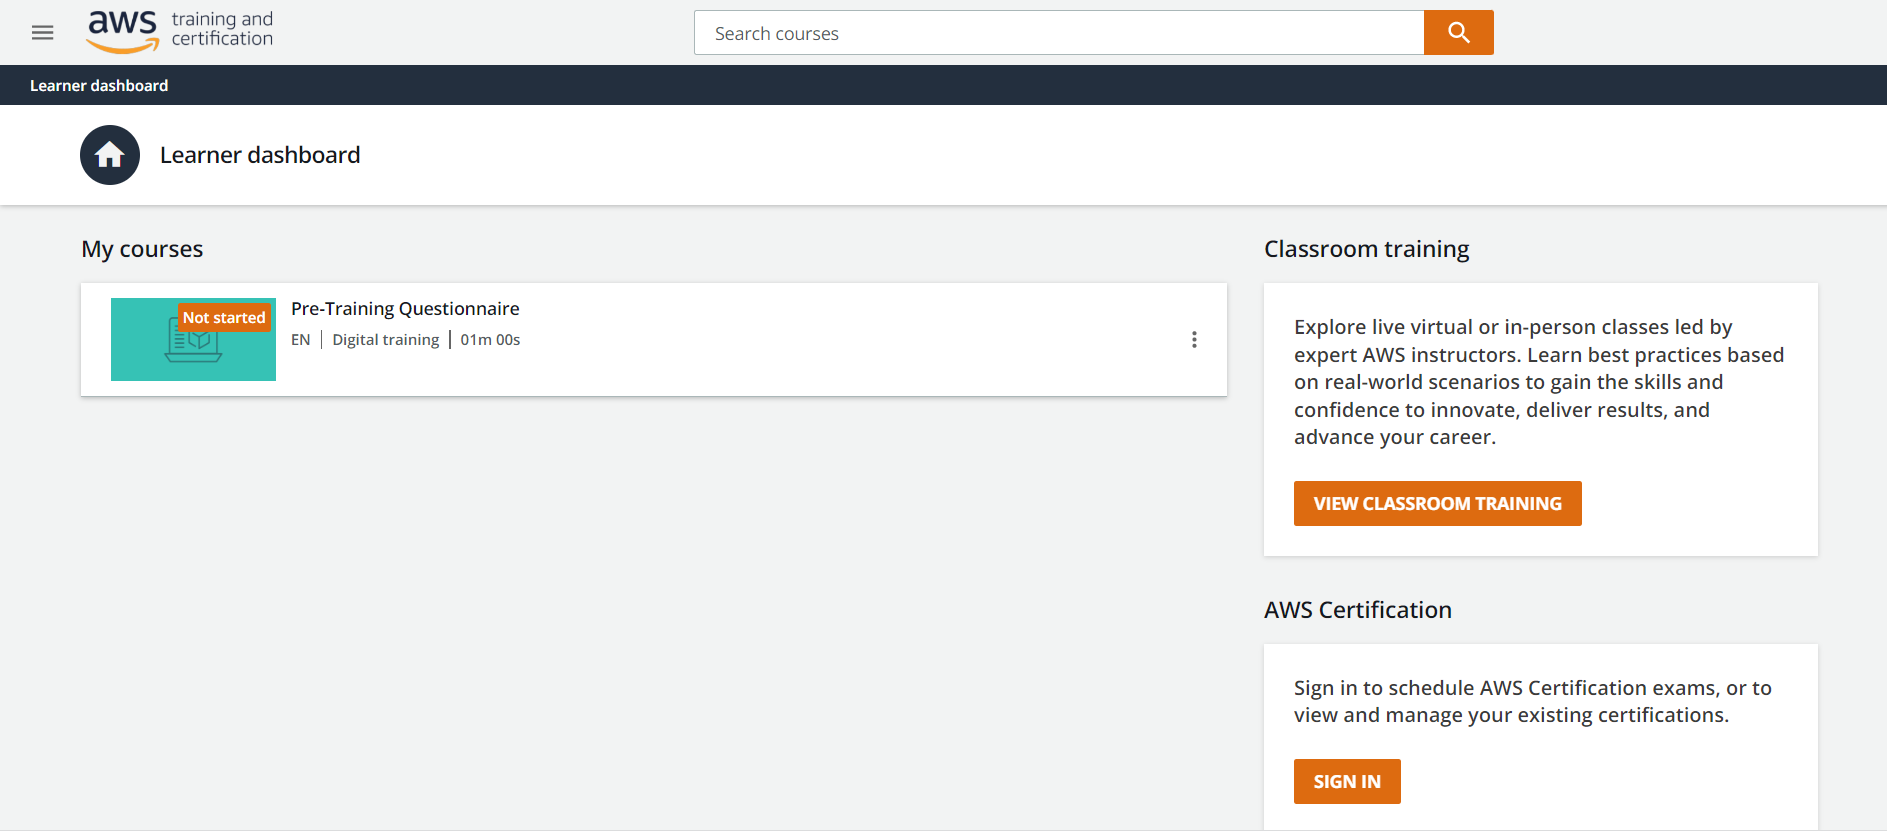
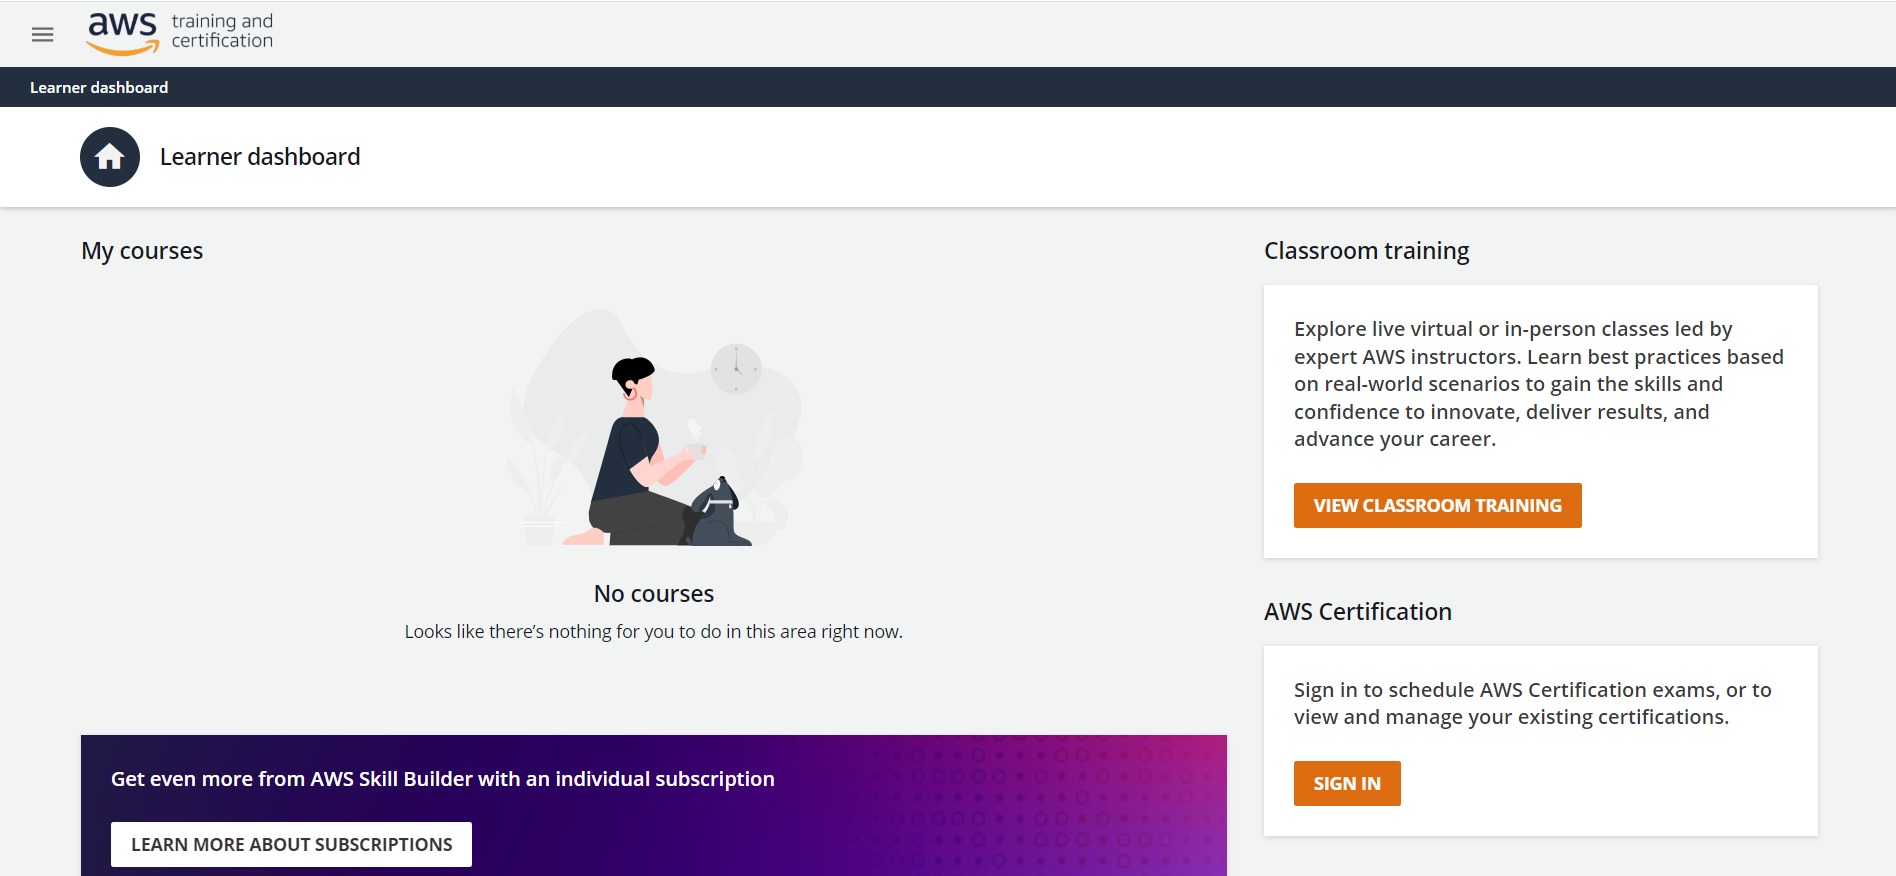
atualização 1s2023

diff --git a/README.md b/README.md
@@ -2,11 +2,6 @@
 
 ## Ambientes Operacionais
 
-Turmas:
-
-* BD 2A
-* EC 3A
-
 # Regras:
 
 * Você terá no máximo 1:40 para fazer a prova
@@ -40,7 +35,7 @@ Turmas:
 
 <img src="images/img9.png" width='100%'/>
 
-6. Clique em <img src="images/img10.png" height='30'/> e depois em <img src="images/img11.png" height='30'/>
+6. Se a opção <img src="images/img11.png" height='30'/> não estiver aparecendo, clique em <img src="images/img10.png" height='30'/> para mostrar. Depois em <img src="images/img11.png" height='30'/>
 
 <img src="images/img12.png" width='100%'/>
 
@@ -83,11 +78,7 @@ Turmas:
 <img src="images/img26.png" width='100%'/>
 
 
-17. Você deve conseguir ver um formulário para completar o cadastro como da imagem abaixo. Preencha o formulário e clique em <img src="images/img29.png" height='30'/> 
-
-<img src="images/img30.png" width='100%'/>
-
-18. Você será redirecionado para o SkillBuilder
+17. Você será redirecionado para o SkillBuilder
 
 <img src="images/img31.png" width='100%'/>
 
@@ -97,41 +88,49 @@ Turmas:
 
 ## Avaliação
 
-19. Procure a barra de pesquisa (<img src="images/img32.png" height='30'/>) e procure pelo curso  `AWS Certified Cloud Practitioner Official Practice Question Set (CLF-C01 - Portuguese)` e selecione a opção 
+1. Acesse https://explore.skillbuilder.aws/learn e faça seu login (siga os passos anteriores)
+
+
+
+2. Role a página para procurar a barra de pesquisa 
+
+<img src="images/img32.png" height='70'/>
+
+3. Procure pelo curso  `AWS Certified Cloud Practitioner Official Practice Question Set (CLF-C01 - Portuguese)` e selecione-o
 
 <img src="images/img33.png" height='500'/>
 
 
-20. Na tela do curso clique em <img src="images/img35.png" height='30'/>
+4. Na tela do curso clique em <img src="images/img35.png" height='30'/>
 
 <img src="images/img36.png" width='100%'/>
 
-21. No modal clique em <img src="images/img37.png" height='30'/> para ser direcionado para a tela do curso
+3. No modal clique em <img src="images/img37.png" height='30'/> para ser direcionado para a tela do curso
 
 <img src="images/img38.png" width='100%'/>
 
-22. Clique em <img src="images/img39.png" height='30'/> ao lado direito
+4. Clique em <img src="images/img39.png" height='30'/> ao lado direito
 
 <img src="images/img40.png" width='100%'/>
 
-22. Na nova tela clique em <img src="images/img41.png" height='30'/>. Uma nova janela será aberta no sistema `BenchPrep`
+5. Na nova tela clique em <img src="images/img41.png" height='30'/>. Uma nova janela será aberta no sistema `BenchPrep`
 
 <img src="images/img42.png" width='100%'/>
 
-23. Na nova janela, aceite os teremos de uso
+6. Na nova janela, aceite os teremos de uso
 
 <img src="images/img65.png" width='100%'/>
 
 
-25. Na nova tela clique em <img src="images/img59.png" height='30'/> na linha do Produto <img src="images/img60.png" height='30'/>
+7. Na nova tela clique em <img src="images/img59.png" height='30'/> na linha do Produto <img src="images/img60.png" height='30'/>
 
 <img src="images/img61.png" width='100%'/>
 
-25. Na nova tela clique em  <img src="images/img62.png" height='30'/> para iniciar a prova
+8. Na nova tela clique em  <img src="images/img62.png" height='30'/> para iniciar a prova
 
 <img src="images/img63.png" width='100%'/>
 
-26. Ao finalizar a prova, anexe na atividade **Avaliação Oficial** no classroom um print do resultado da sua prova. A imagem deve ser como o exemplo abaixo
+9. Ao finalizar a prova, anexe na atividade **Avaliação Oficial** no classroom um print do resultado da sua prova. A imagem deve ser como o exemplo abaixo
 
 <img src="images/img64.png" width='100%'/>
 
